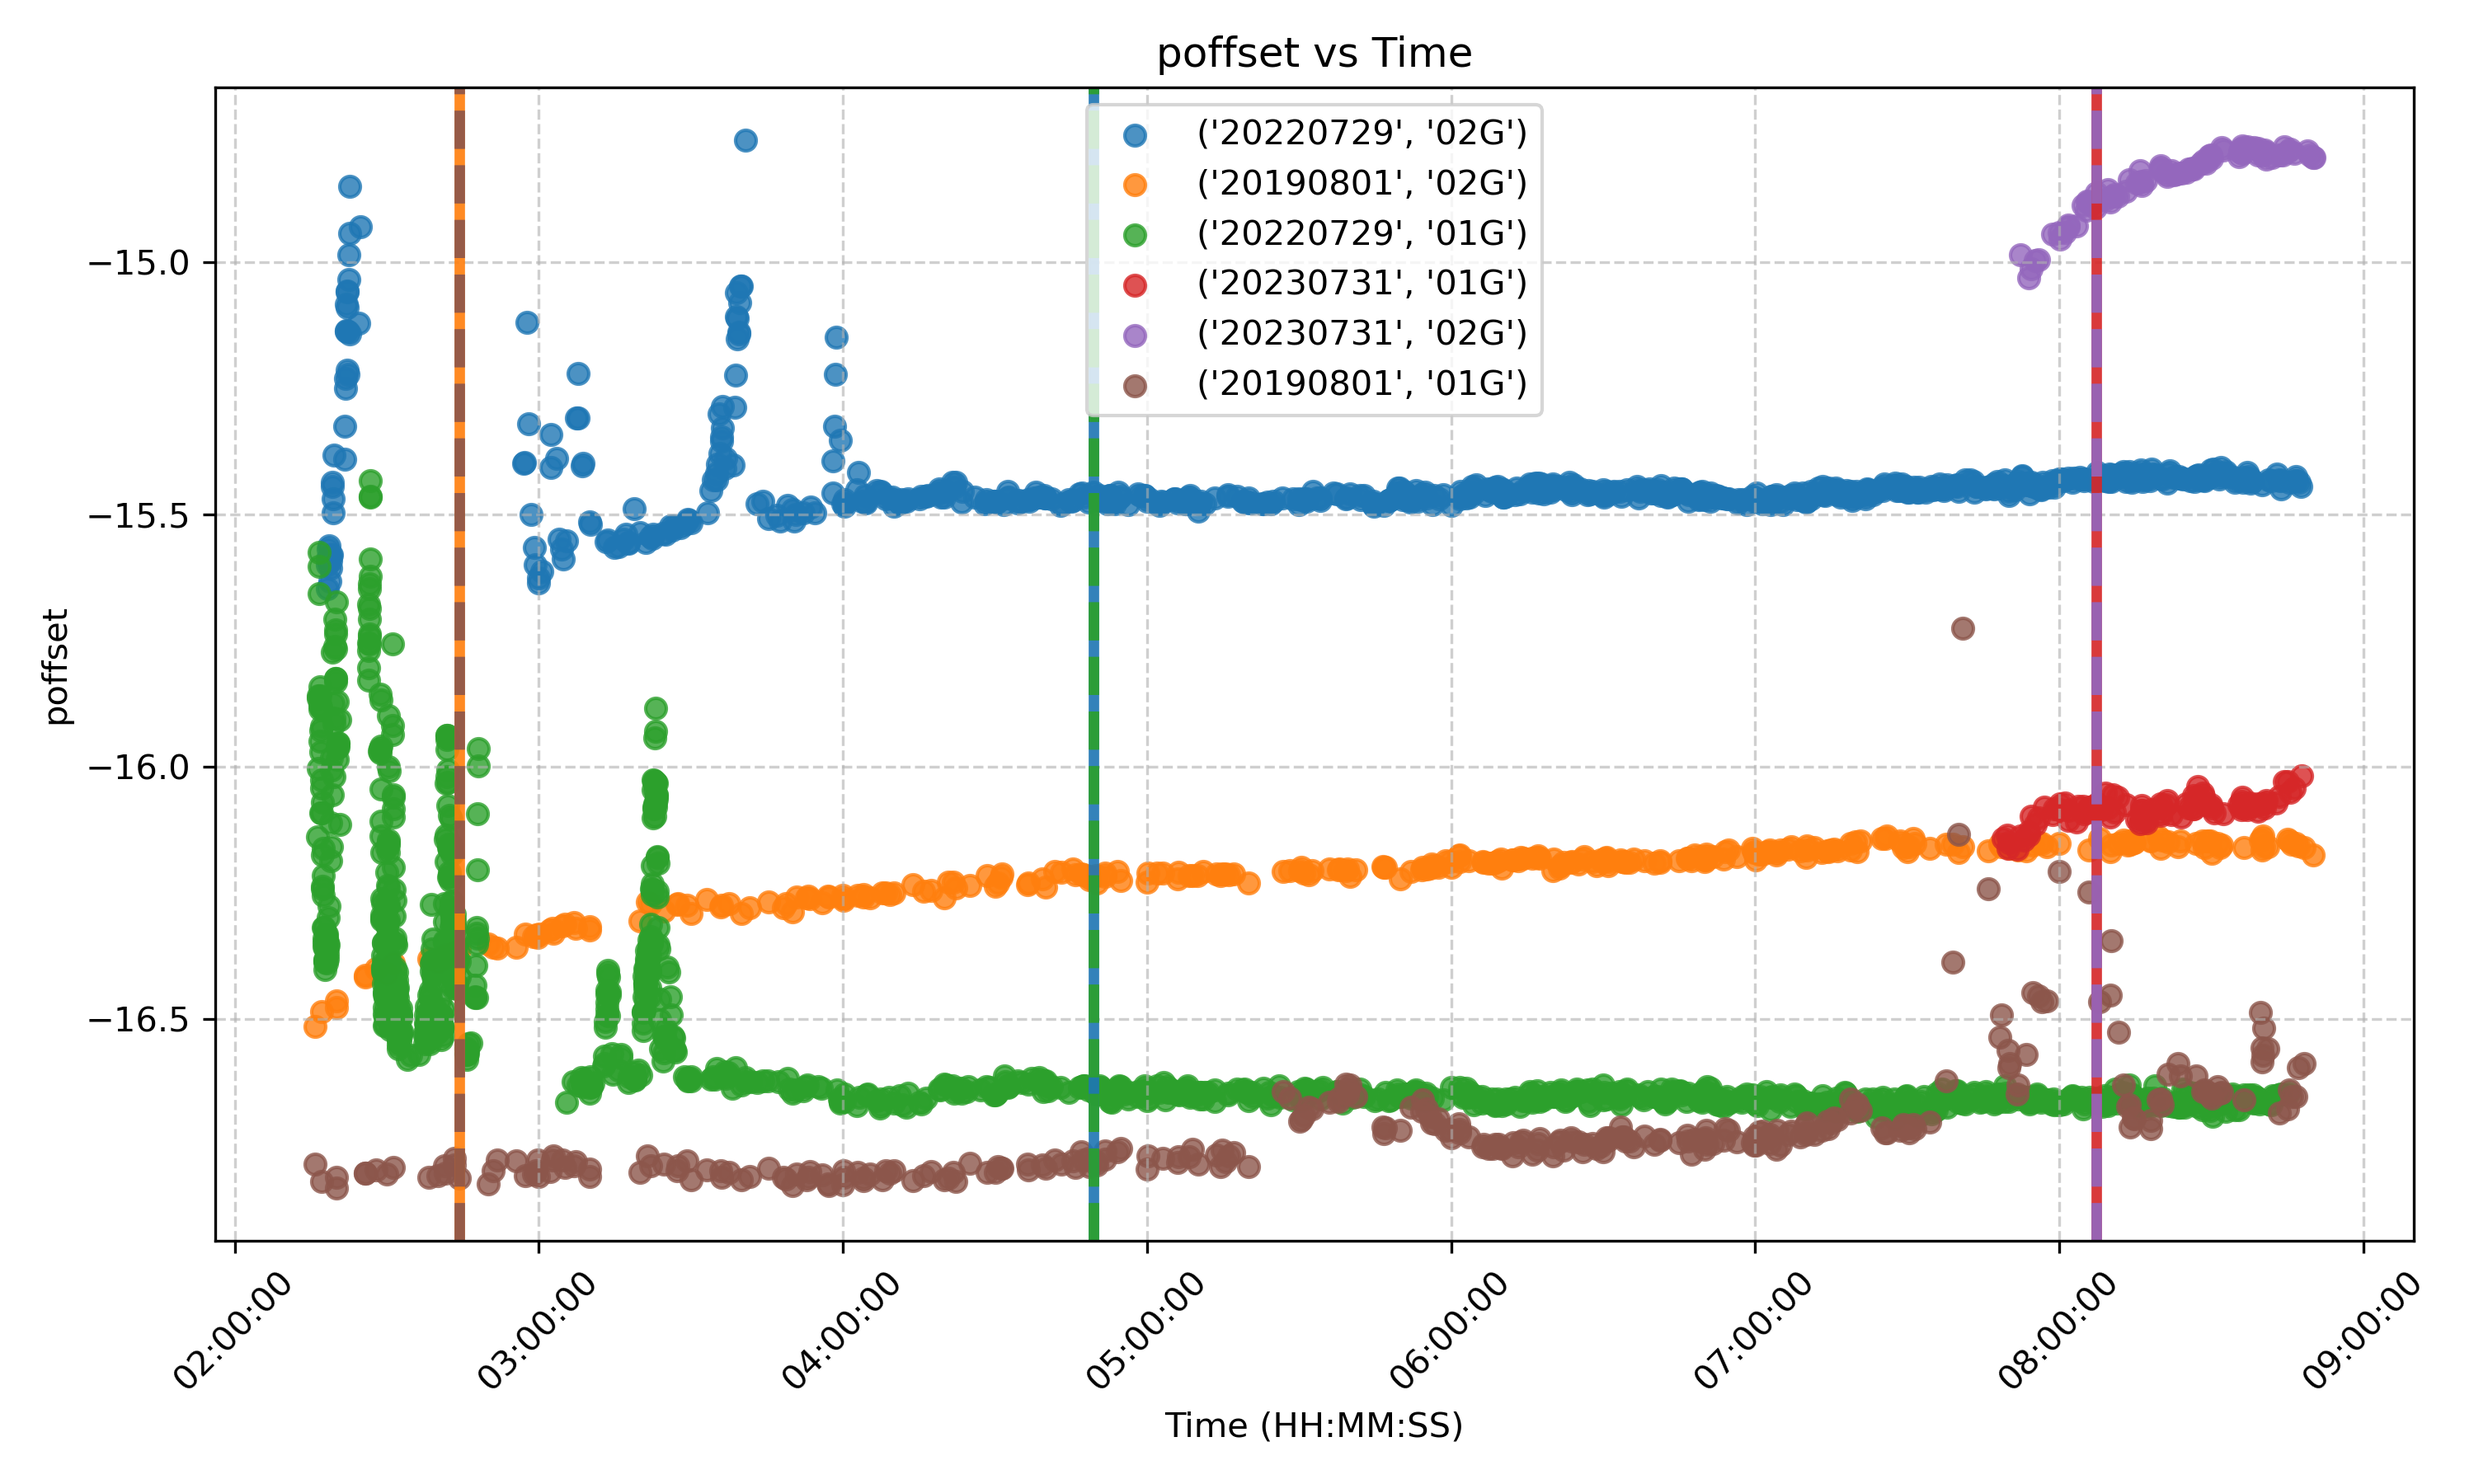
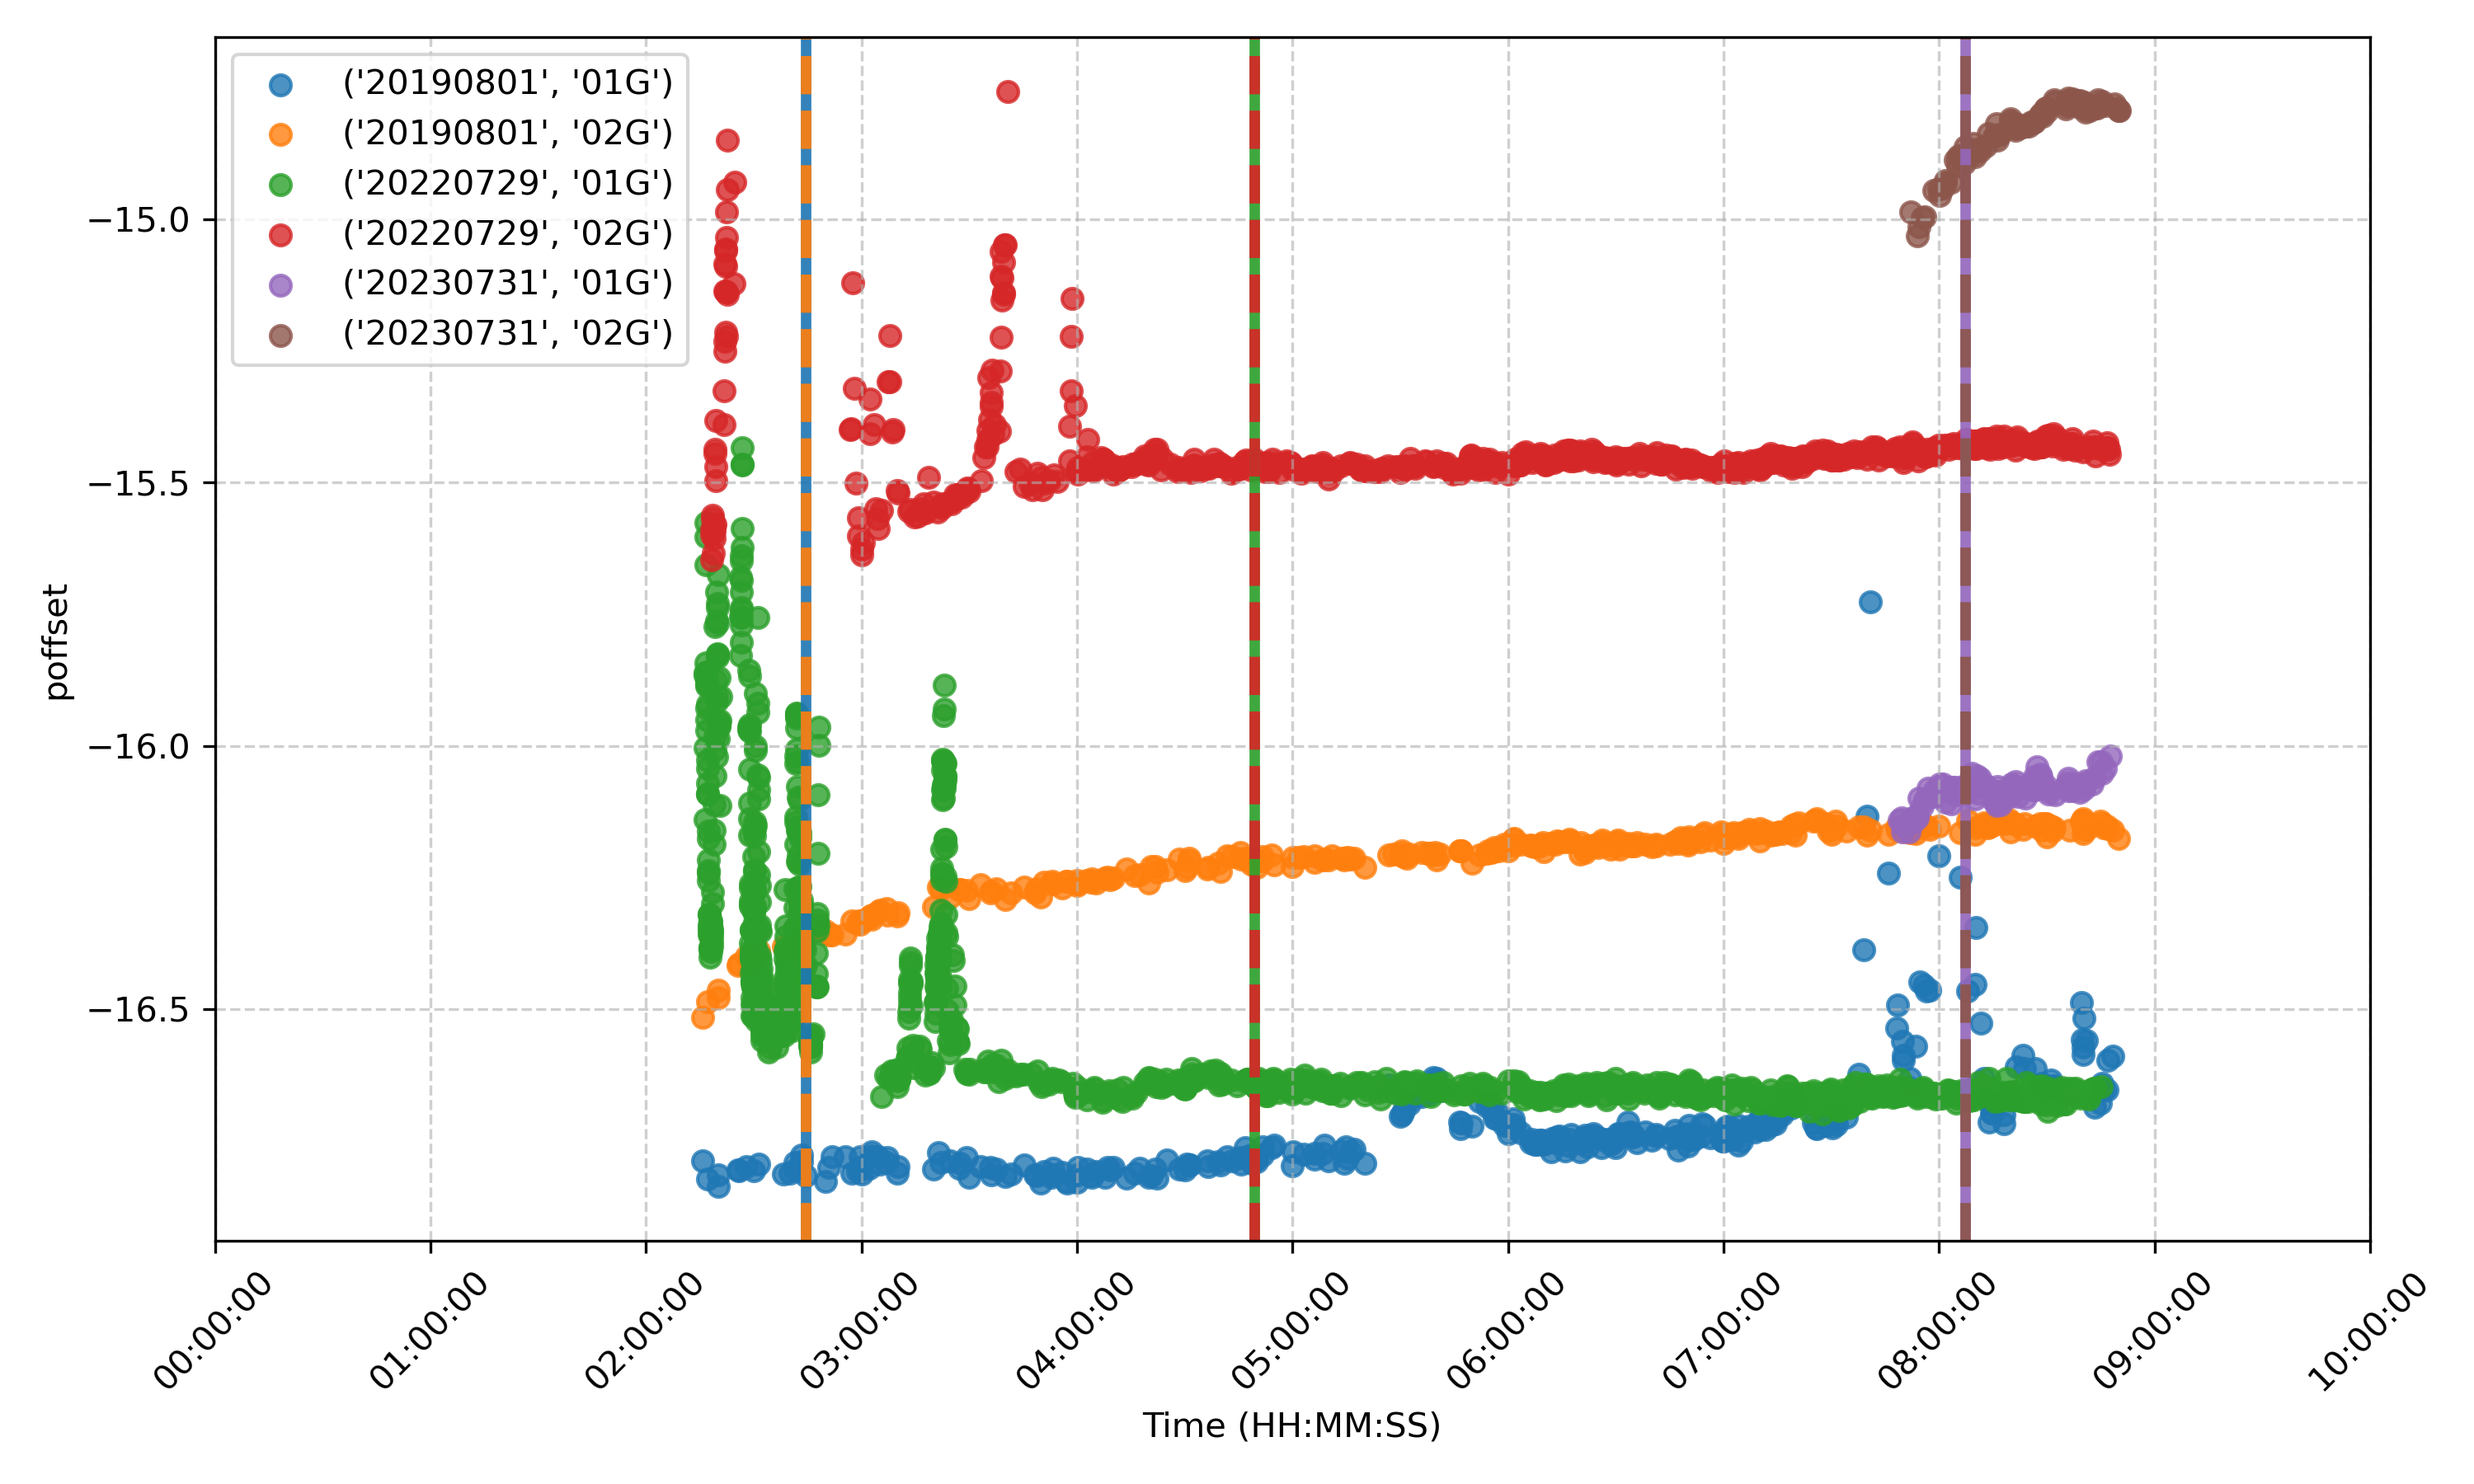
upsy tiny bug and change the x limit for the photon plo

diff --git a/Code/DynNestSampl/DynNestSapl_metsim.py b/Code/DynNestSampl/DynNestSapl_metsim.py
@@ -372,8 +372,8 @@ def plot_data_with_residuals_and_real(obs_data, sim_data=None, output_folder='',
         # for each station in obs_data_plot
         for station in np.unique(obs_data.stations_lum):
             # plot the height vs. absolute_magnitudes
-            ax1.plot(sim_diff_mag[np.where(obs_data.stations_lag == station)], \
-                    obs_data.height_lum[np.where(obs_data.stations_lag == station)]/1000, '.', \
+            ax1.plot(sim_diff_mag[np.where(obs_data.stations_lum == station)], \
+                    obs_data.height_lum[np.where(obs_data.stations_lum == station)]/1000, '.', \
                     color=station_colors[station], label=station)
 
         ax4.plot(sim_data.luminosity_arr, sim_data.leading_frag_height_arr/1000, color='black', label='Best guess') 
@@ -388,8 +388,8 @@ def plot_data_with_residuals_and_real(obs_data, sim_data=None, output_folder='',
         # for each station in obs_data_plot
         for station in np.unique(obs_data.stations_lum):
             # plot the height vs. absolute_magnitudes
-            ax5.plot(sim_diff_lum[np.where(obs_data.stations_lag == station)], \
-                    obs_data.height_lum[np.where(obs_data.stations_lag == station)]/1000, '.', \
+            ax5.plot(sim_diff_lum[np.where(obs_data.stations_lum == station)], \
+                    obs_data.height_lum[np.where(obs_data.stations_lum == station)]/1000, '.', \
                     color=station_colors[station], label=station)
 
         # find the obs_data.leading_frag_height_arr index is close to obs_data.height_lum[0] wihouth nan

diff --git a/Code/DynNestSampl/Validation/noise/lum_noise_line/phot_background_plot.py b/Code/DynNestSampl/Validation/noise/lum_noise_line/phot_background_plot.py
@@ -90,12 +90,14 @@ def plot_photometry(input_folder):
 
     plt.xlabel("Time (HH:MM:SS)")
     plt.ylabel(to_plot)
-    plt.title(to_plot+" vs Time")
+    # plt.title(to_plot+" vs Time")
 
     # Format x-axis to show HH:MM:SS properly
     plt.gca().xaxis.set_major_formatter(mdates.DateFormatter('%H:%M:%S'))
     plt.gca().xaxis.set_major_locator(mdates.AutoDateLocator())  # Auto-adjust ticks for readability
     plt.xticks(rotation=45)
+    # make x axis from 00:00:00 to 12:00:00
+    plt.xlim(datetime.datetime.strptime('00:00:00', '%H:%M:%S'), datetime.datetime.strptime('10:00:00', '%H:%M:%S'))
 
     plt.grid(True, linestyle='--', alpha=0.6)
 
@@ -110,5 +112,5 @@ def plot_photometry(input_folder):
     plt.savefig(os.path.join(input_folder, "photometry_"+to_plot+"_plot.png"), dpi=300)
 
 # put input folder here with phot folder
-input_folder = "/home/mvovk/WMPG-repoMAX/Code/DynNestSampl/lum_noise/plots_ORI"  # Change this to your actual input folder
+input_folder = r"C:\Users\maxiv\WMPG-repoMAX\Code\DynNestSampl\Validation\noise\lum_noise_line\CAP"  # Change this to your actual input folder
 plot_photometry(input_folder)
